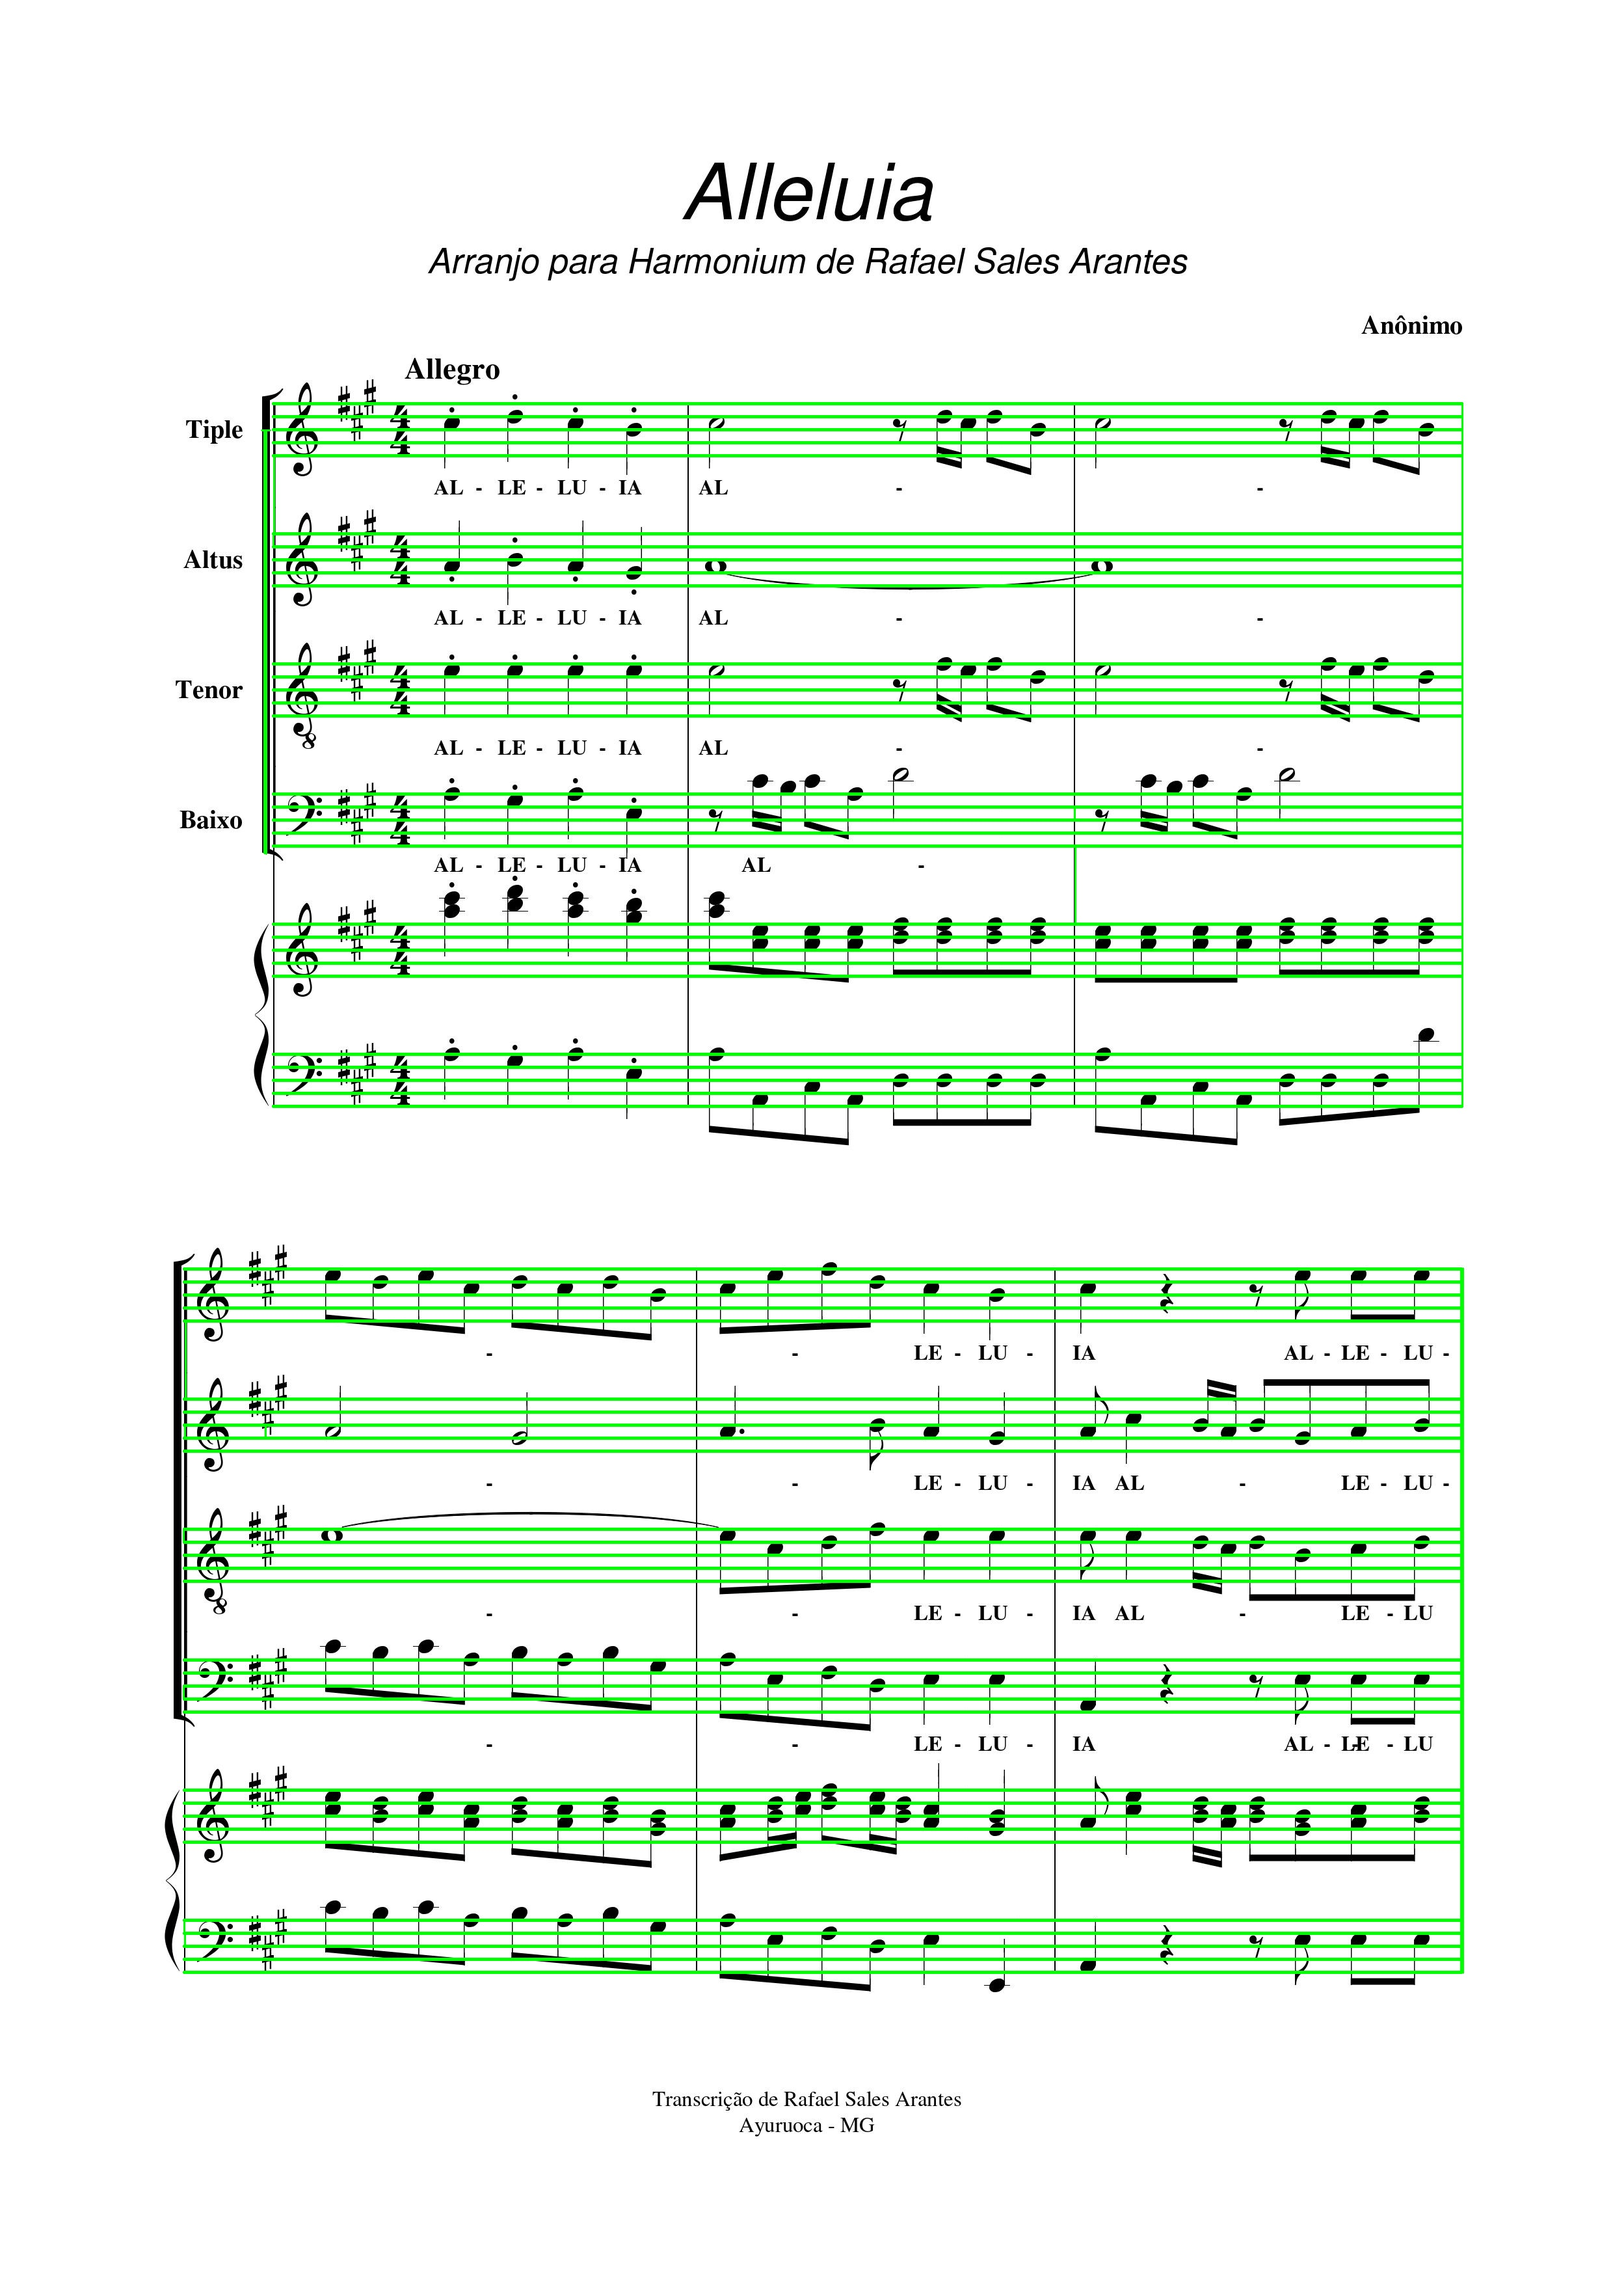
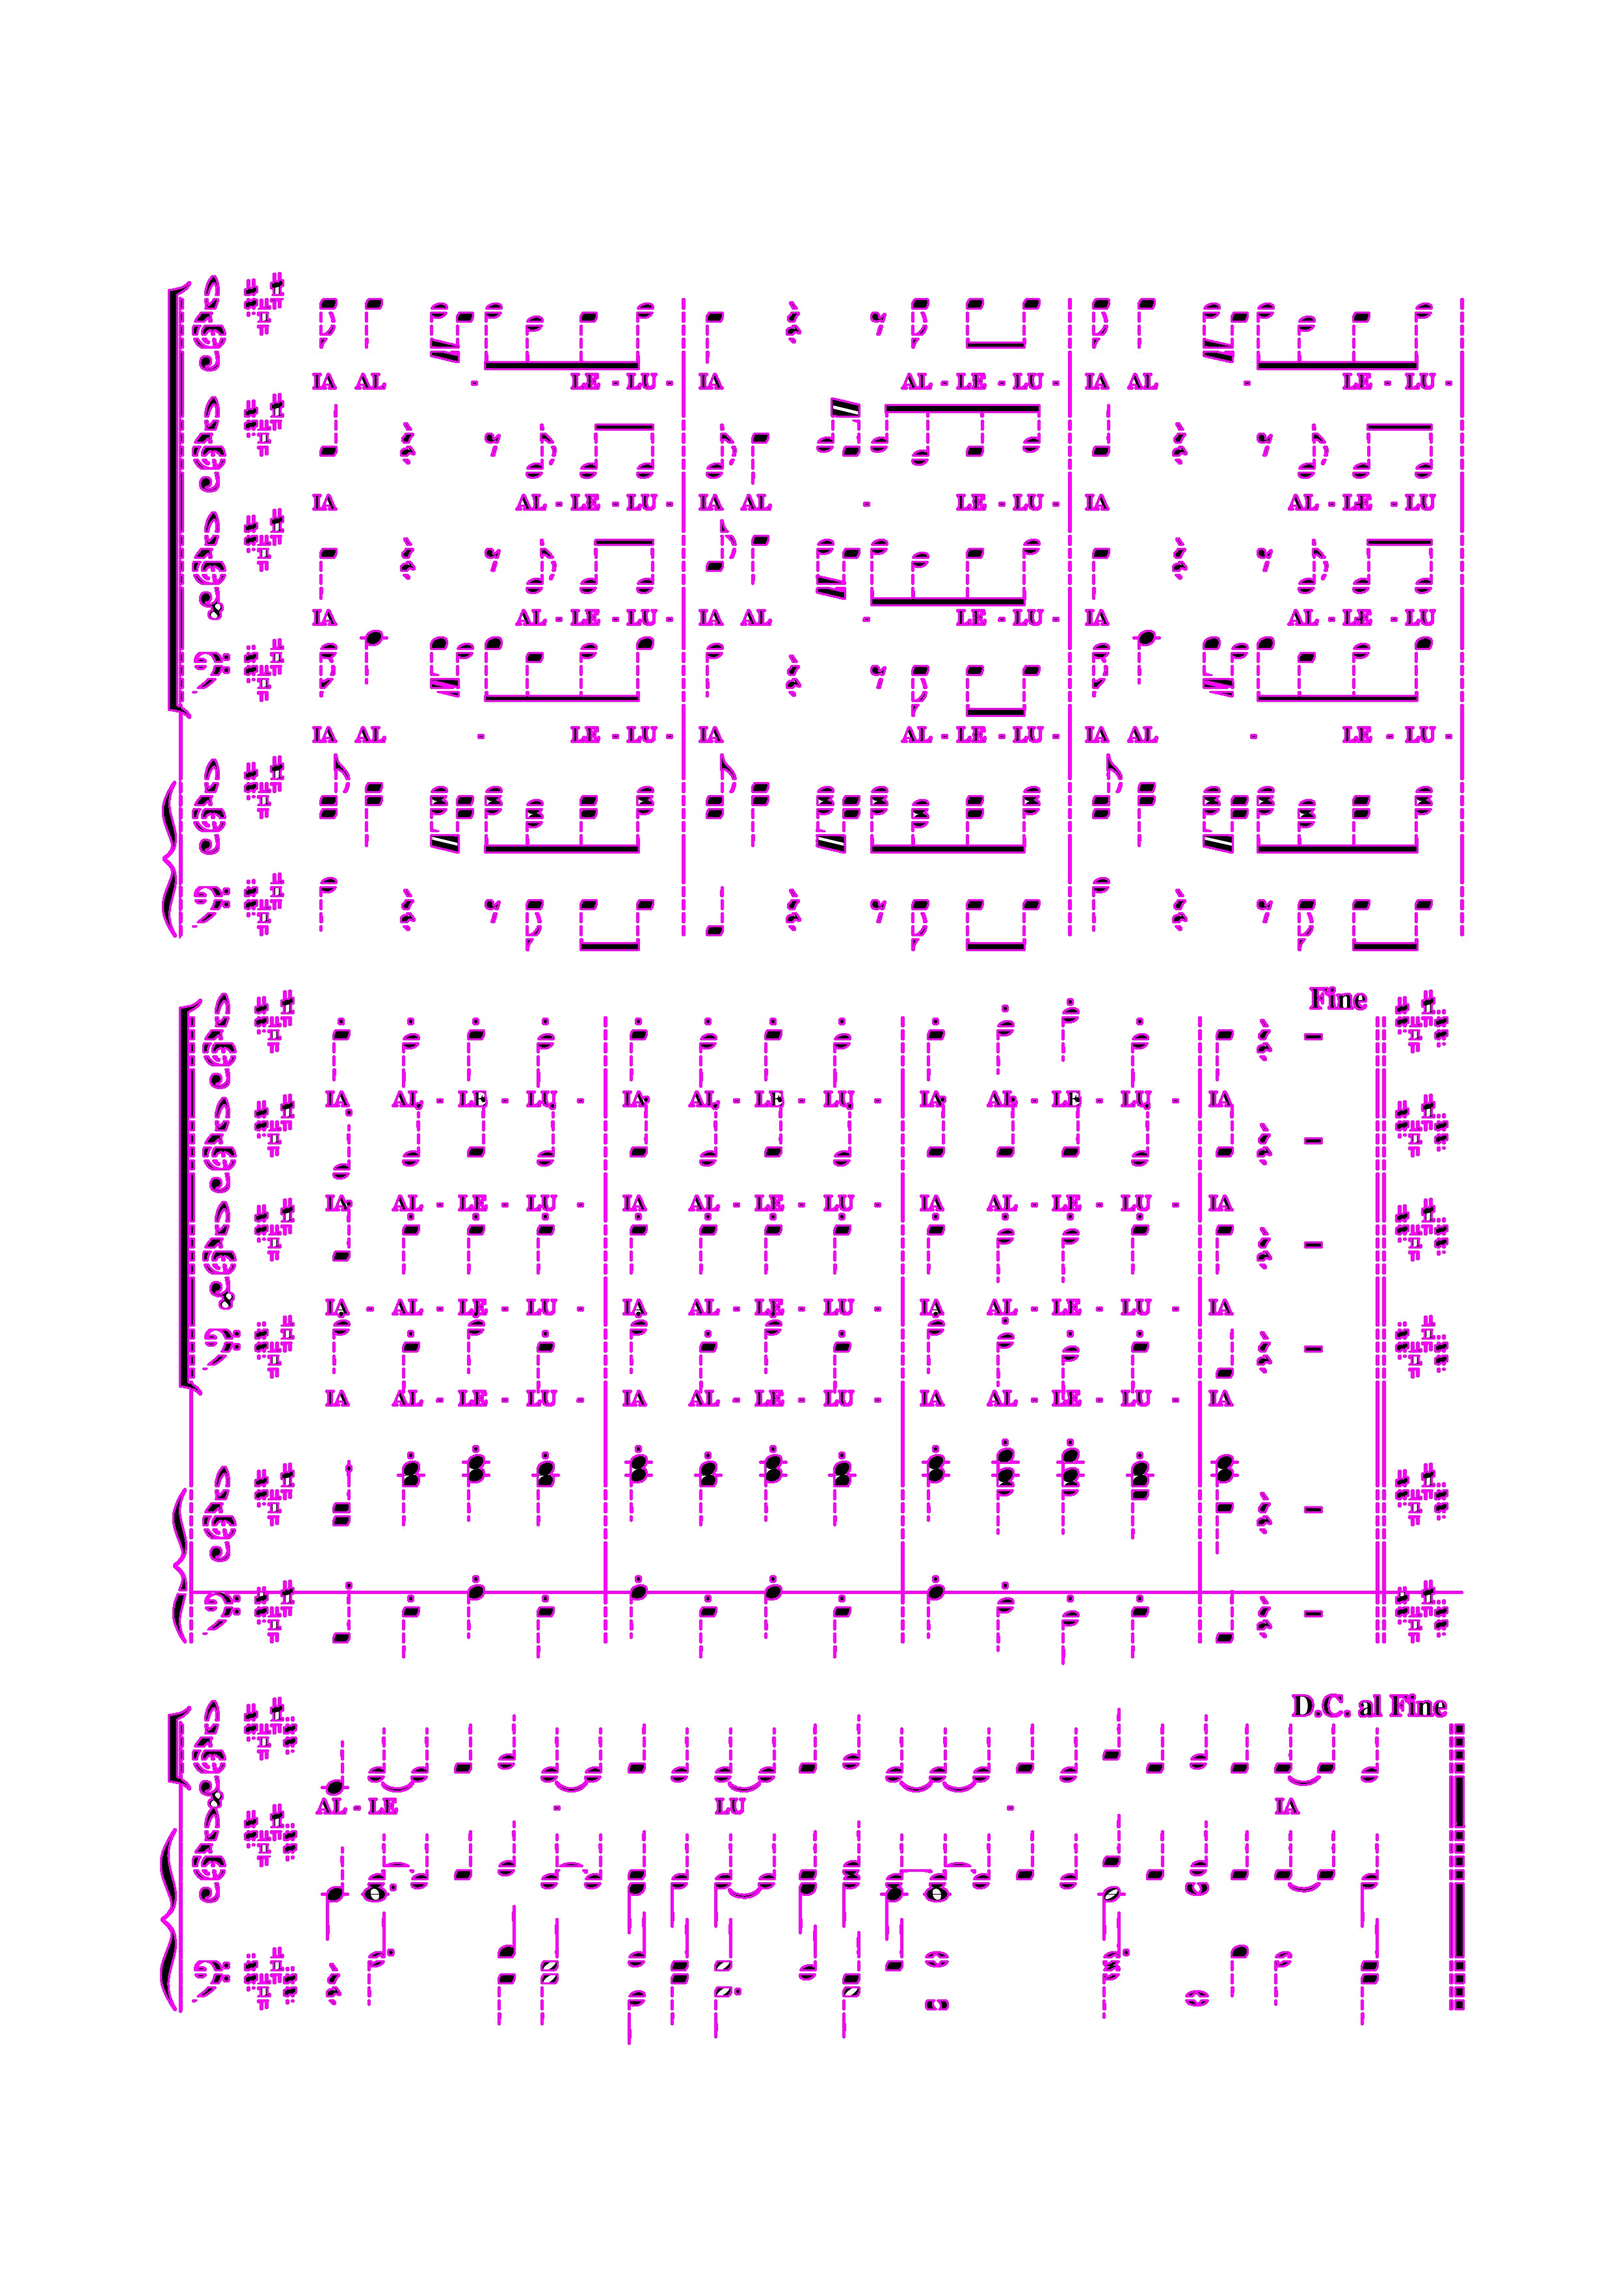
Vonalak és kontúrok

Changed region(s): [[0.0931, 0.0621, 0.9315, 0.9008]]

diff --git a/program.py b/program.py
@@ -1,17 +1,66 @@
 import cv2
 import numpy as np
 
-img = cv2.imread('kepek/test/test1.jpg')
+img = cv2.imread('kepek/tesztkepek/test2.jpg')
 gray = cv2.cvtColor(img,cv2.COLOR_BGR2GRAY)
 thresh= cv2.threshold(gray,100,255,cv2.THRESH_BINARY)[1]
 thresh = 255-thresh
 thresh = cv2.dilate(thresh, cv2.getStructuringElement(cv2.MORPH_RECT, (3,3)))
-minLineLength = 1000
+minLineLength = img.shape[1]/4*3
 maxLineGap = 10
 lines = cv2.HoughLinesP(thresh,1,np.pi/2,1000,minLineLength,maxLineGap)
+goodLines = []
 for line in lines:
     x1,y1,x2,y2 = line[0]
-    cv2.line(img,(x1,y1), (x2,y2), (0,255,0), 2)
+    if abs(x2-x1) > abs(y2-y1):
+        goodLines.append(line[0])
+        
+      
+goodLines.sort(key=lambda line: line[1])
+
+goodLines2 = []
+tempLines = []
+i=0
+counter = 0
+averageGap = 0
+while i<len(goodLines):
+    tempLines.append(goodLines[i])
+    beforeY = goodLines[i][1]
+    j=i+1
+    while j<len(goodLines) and goodLines[j][1]-beforeY <= 5:
+        j += 1
+    
+   
+    i=j+1
+    if len(tempLines) == 5:
+        goodLines2.append(tempLines)
+        averageGap += tempLines[2][1]- tempLines[1][1]
+        tempLines = []
+        
+averageGap = averageGap/len(goodLines2)
+
+
+for lines in goodLines2:
+    for line in lines:
+        cv2.line(img,(line[0],line[1]), (line[2],line[3]), (255,255,255), round(averageGap/5))
+        cv2.line(thresh,(line[0],line[1]), (line[2],line[3]), (0,0,0), round(averageGap/5))
+
+for lines in goodLines2:
+    print(lines)
+print(len(goodLines2))
+
+thresh = cv2.erode(thresh,cv2.getStructuringElement(cv2.MORPH_RECT,(3,3)),iterations=3)
+
+contours, hierarchy = cv2.findContours(thresh, cv2.RETR_EXTERNAL, cv2.CHAIN_APPROX_SIMPLE)
+
+for cnt in contours:
+    peri = cv2.arcLength(cnt, True)
+    approx = cv2.approxPolyDP(cnt, 0.02 * peri, True)
+
+    x, y, w, h = cv2.boundingRect(approx)
+
+    cv2.drawContours(img, contours, -1, (255,0,255), thickness=2)
 
 cv2.imwrite('linetest.jpg',img)
+cv2.imwrite('linethresh.jpg',thresh)
 cv2.waitKey(0)
